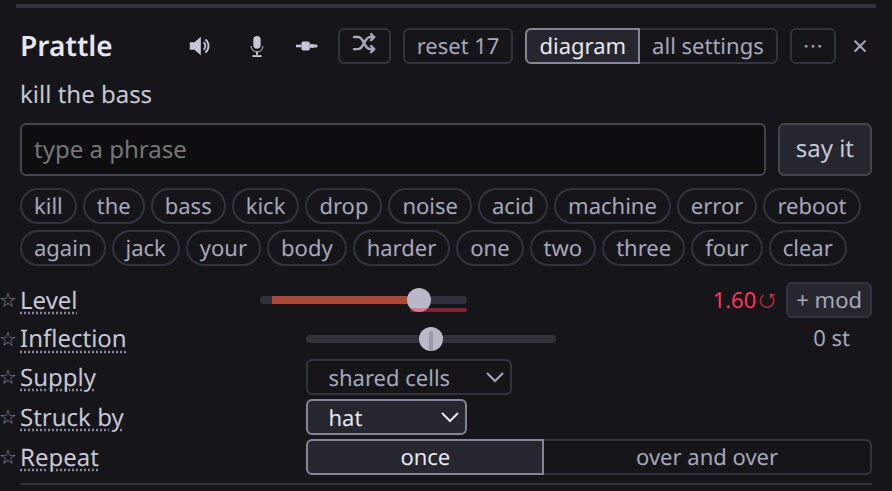
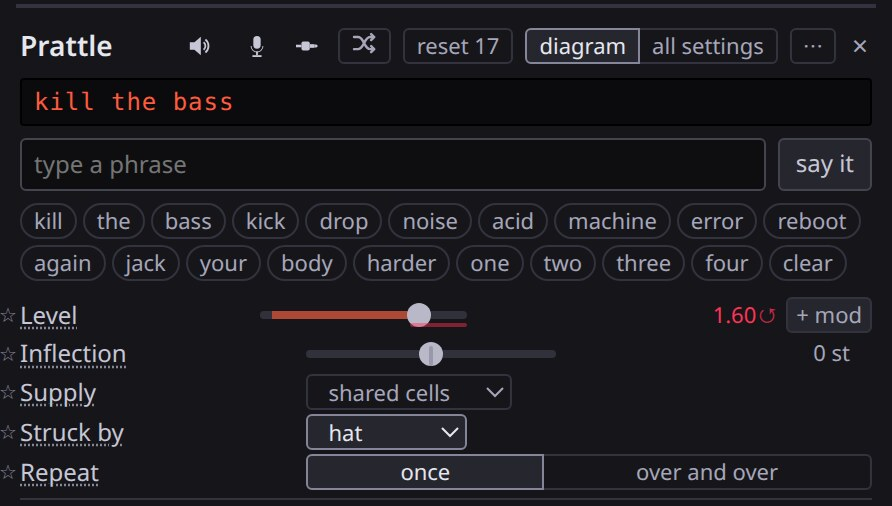
feat(ui): Prattle's plate gets a speaker grille lit by its voice, and its phrase on a readout

diff --git a/src/ui/PrattleFace.tsx b/src/ui/PrattleFace.tsx
@@ -1,0 +1,60 @@
+import { MACHINES } from '../machines.ts'
+import { useMeterValue } from './ControlsContext.ts'
+import { Faceplate } from './Faceplate.tsx'
+import { position } from './meterScale.ts'
+import { PhraseBox } from './PhraseBox.tsx'
+import styles from './PrattleFace.module.css'
+
+const TAP = MACHINES.findIndex(m => m.name === 'Prattle')
+
+const RINGS = [1, 6, 12, 18]
+const PITCH = 9.5
+const HOLES = RINGS.flatMap((n, ring) =>
+  Array.from({ length: n }, (_, i) => {
+    const a = (2 * Math.PI * (i + ring / 2)) / n
+    return {
+      ring,
+      x: Math.cos(a) * ring * PITCH,
+      y: Math.sin(a) * ring * PITCH,
+    }
+  }),
+)
+
+/** The talking toy's speaker, its holes lit from the middle out by what
+    Prattle is saying. */
+function Grille() {
+  const lit = useMeterValue(m =>
+    Math.ceil(position(m.taps[TAP] ?? 0) * RINGS.length),
+  )
+  return (
+    <svg className={styles.grille} viewBox="-40 -40 80 80" aria-hidden="true">
+      <circle className={styles.rim} r={38} />
+      {HOLES.map(({ ring, x, y }) => (
+        <circle
+          key={`${x},${y}`}
+          className={ring < lit ? styles.lit : styles.hole}
+          cx={x}
+          cy={y}
+          r={2.8}
+        />
+      ))}
+    </svg>
+  )
+}
+
+export function PrattleFace({
+  seconds,
+  onClose,
+}: {
+  seconds?: number
+  onClose?: () => void
+}) {
+  return (
+    <Faceplate stage="Prattle" seconds={seconds} onClose={onClose}>
+      <div className={styles.body}>
+        <Grille />
+        <PhraseBox />
+      </div>
+    </Faceplate>
+  )
+}

diff --git a/src/ui/Instruments.tsx b/src/ui/Instruments.tsx
@@ -24,7 +24,7 @@ import { wireOn } from './micWiring.ts'
 import { LeadKeys, MonoKeys } from './MonoKeys.tsx'
 import { PcmKeys } from './PcmKeys.tsx'
 import { AddPedal } from './Pedals.tsx'
-import { PhraseBox } from './PhraseBox.tsx'
+import { PrattleFace } from './PrattleFace.tsx'
 import { SheetFace } from './SheetFace.tsx'
 import { SourceMeters, SourceMetersSwitch } from './SourceMeters.tsx'
 import { levelOf } from './stageLevels.ts'
@@ -51,20 +51,6 @@ function FourTrackFace({
   return (
     <Faceplate stage="Layercake" seconds={seconds} onClose={onClose}>
       <FourTrack />
-    </Faceplate>
-  )
-}
-
-function PrattleFace({
-  seconds,
-  onClose,
-}: {
-  seconds?: number
-  onClose?: () => void
-}) {
-  return (
-    <Faceplate stage="Prattle" seconds={seconds} onClose={onClose}>
-      <PhraseBox />
     </Faceplate>
   )
 }

diff --git a/src/ui/PrattleFace.module.css b/src/ui/PrattleFace.module.css
@@ -1,0 +1,34 @@
+.body {
+  display: flex;
+  align-items: flex-start;
+  gap: var(--space-md);
+}
+
+.body > :last-child {
+  flex: 1;
+  min-width: 0;
+}
+
+.grille {
+  flex: none;
+  width: 92px;
+  margin-top: var(--space-xs);
+}
+
+.rim {
+  fill: #1b1c20;
+  stroke: #3c3d44;
+}
+
+.hole,
+.lit {
+  transition: fill 0.12s;
+}
+
+.hole {
+  fill: #0b0b0e;
+}
+
+.lit {
+  fill: var(--accent);
+}

diff --git a/src/ui/PhraseBox.module.css b/src/ui/PhraseBox.module.css
@@ -5,10 +5,21 @@
   margin-bottom: var(--space-md);
 }
 
-.held {
+.held,
+.empty {
   min-height: 1.3em;
+  padding: var(--space-xs) var(--space-sm);
+  font-family: var(--mono);
   font-size: var(--fs-sm);
-  color: var(--fg2);
+  letter-spacing: 0.04em;
+  background: #0b0b0e;
+  border: 1px solid #000;
+  border-radius: 2px;
+  color: #ff5a3c;
+}
+
+.empty {
+  color: #8a4636;
 }
 
 .row {

diff --git a/src/ui/PhraseBox.tsx b/src/ui/PhraseBox.tsx
@@ -48,7 +48,7 @@ export function PhraseBox() {
   }
   return (
     <div className={styles.box}>
-      <div className={styles.held}>
+      <div className={held === '' ? styles.empty : styles.held}>
         {held === '' ? 'empty: it counts one to four' : held}
       </div>
       <div className={styles.row}>
